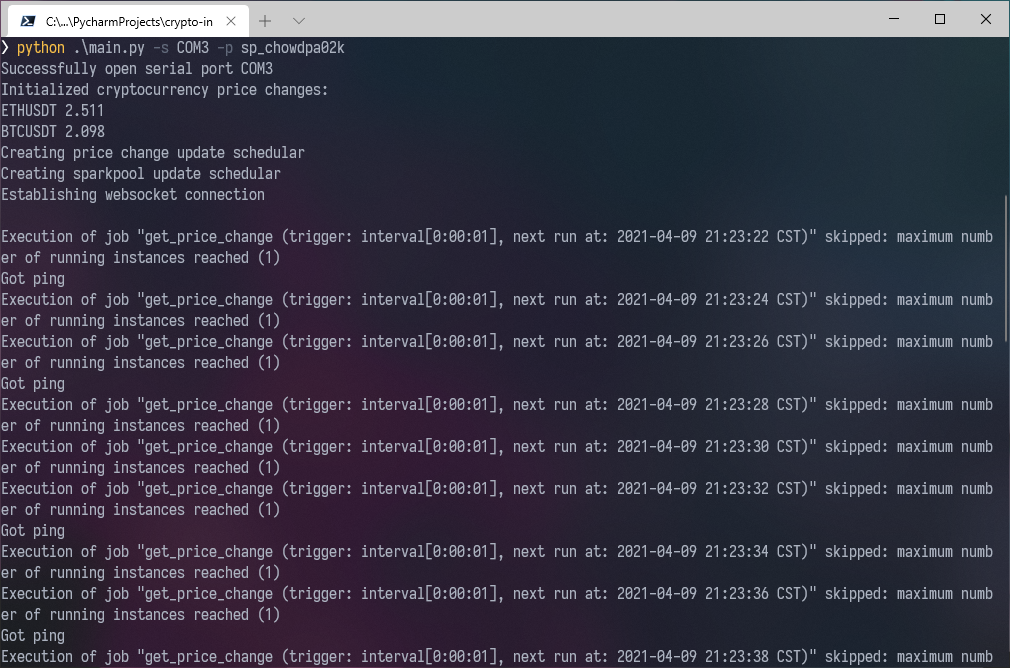
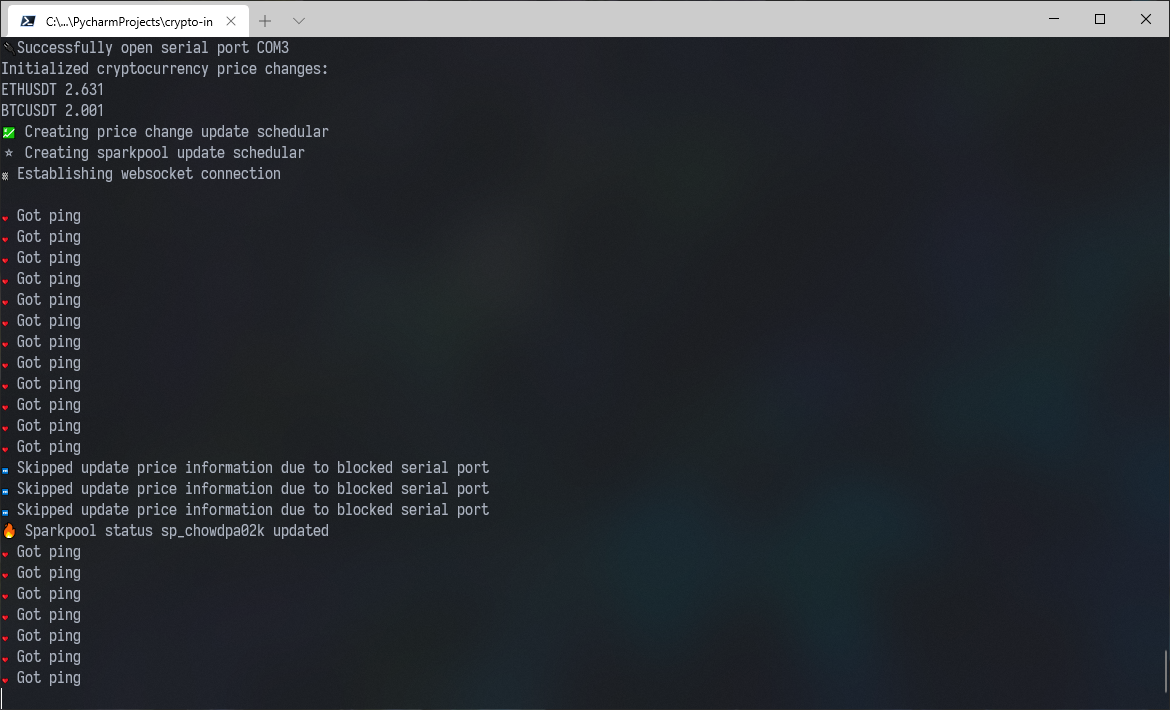
Optimized output

diff --git a/main.py b/main.py
@@ -12,14 +12,14 @@ import argparse
 coins = ['ETHUSDT', 'BTCUSDT']
 price_change= {}
 
-# SERIAL_BLOCKED = False
+SERIAL_BLOCKED = False
 COLOR_UP_GREEN = '7596'
 COLOR_DOWN_RED = '64106'
 # init object parameters in HMI
 # use array is not a good way, but who cares?
 controls = {
     # coin name, change mark, price change percent, 24h highest, 24h lowest, price integer, price dot
-    'ETH': ['page0.cn0', 'page0.m0', 'page0.c0', 'page0.h0', 'page0.l0', 'page0.p0', 'page0.p0d'],
+    'ETH': ['page0.cn0', 'page0.m0', 'page0.pc0', 'page0.h0', 'page0.l0', 'page0.p0', 'page0.p0d'],
     'BTC': ['page0.cn1', 'page0.m1', 'page0.pc1', 'page0.h1', 'page0.l1', 'page0.p1', 'page0.p1d']
 }
 pool_controls = {
@@ -119,6 +119,7 @@ def get_price_change():
         # if item == 'BTCUSDT':
         #     btc_price_change = result['priceChangePercent']
         sleep(0.5)
+    # print('💹 Price change updated')
 
 def get_pool_status(miner):
     worker = 'https://www.sparkpool.com/v1/miner/stats'
@@ -161,7 +162,7 @@ def get_pool_status(miner):
     }
 
 def update_pool_status():
-    global pool
+    global pool, SERIAL_BLOCKED
     pool_status = get_pool_status(pool)
     if verbose:
         print(pool_status)
@@ -169,15 +170,18 @@ def update_pool_status():
     if serial_debug:
         print(commands)
     if not print_only:
+        SERIAL_BLOCKED = True
+        sleep(0.2)
         send_serial(device, commands)
-    print('Sparkpool status', pool, 'updated')
+        SERIAL_BLOCKED = False
+    print('🔥 Sparkpool status', pool, 'updated')
 
 def on_message(wsapp, message):
     result = gzip.decompress(message)
     result = json.loads(result)
 
     if 'ping' in result:
-        print('Got ping')
+        print('❤ Got ping')
         wsapp.send(
             json.dumps({"pong": result['ping']})
         )
@@ -199,7 +203,10 @@ def on_message(wsapp, message):
                 'high': result['tick']['high'],
                 'low': result['tick']['low']
             })
-            send_serial(device, command)
+            if not SERIAL_BLOCKED:
+                send_serial(device, command)
+            else:
+                print('⏭ Skipped update price information due to blocked serial port')
 
 def on_open(wsapp):
     req_eth = '{"sub": "market.ethusdt.detail", "id": "1110"}'
@@ -236,7 +243,7 @@ if __name__ == "__main__":
     # open serial port
     if not print_only:
         device = serial.Serial(serial_port, 115200, timeout=1)
-        print('Successfully open serial port', device.name)
+        print('🔌Successfully open serial port', device.name)
 
     # init increses variable
     get_price_change()
@@ -245,18 +252,18 @@ if __name__ == "__main__":
         print(item, price_change[item])
 
     # create a schedular to get price change percent
-    print('Creating price change update schedular')
+    print('💹 Creating price change update schedular')
     schedular = background.BackgroundScheduler()
-    schedular.add_job(get_price_change, 'interval', seconds=1, id='refresh')
+    schedular.add_job(get_price_change, 'interval', seconds=2, id='refresh')
 
     # create another schedular to update mining pool status
     if pool:
-        print('Creating sparkpool update schedular')
-        schedular.add_job(update_pool_status, 'interval', minutes=2, id='refresh_pool')
+        print('⭐ Creating sparkpool update schedular')
+        schedular.add_job(update_pool_status, 'interval', minutes=1, id='refresh_pool')
     schedular.start()
 
     # establish websocket connection
-    print('Establishing websocket connection\n')
+    print('⛓ Establishing websocket connection\n')
     websocket.enableTrace(False)
     wsapp = websocket.WebSocketApp("wss://api.huobi.pro/ws", on_message=on_message, on_open=on_open)
     signal.signal(signal.SIGINT, sigint_handler)
